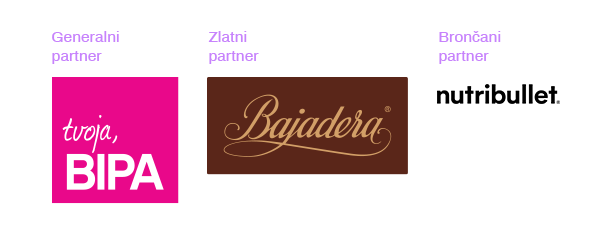
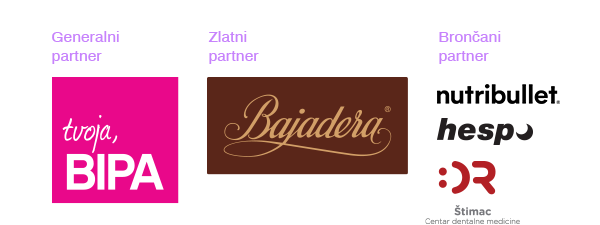
updates

Changed region(s): [[0.72, 0.5289, 0.9, 0.6533], [0.72, 0.7156, 0.84, 0.8711], [0.69, 0.9022, 0.87, 0.9956]]

diff --git a/templates/native/biram-sebe/assets/css/style.css b/templates/native/biram-sebe/assets/css/style.css
@@ -1927,7 +1927,7 @@ Portfolio
 .our-portfolio .owl-nav {
   display: inline-block!important;
   position: absolute;
-  top: -125px;
+  top: -225px;
   right: 15%;
   max-width: 1320px;
 }

diff --git a/templates/native/biram-sebe/index.php b/templates/native/biram-sebe/index.php
@@ -24,12 +24,12 @@
     <link href="https://fonts.googleapis.com/css2?family=Cormorant:ital,wght@0,300..700;1,300..700&family=Poppins:ital,wght@0,100;0,200;0,300;0,400;0,500;0,600;0,700;0,800;0,900;1,100;1,200;1,300;1,400;1,500;1,600;1,700;1,800;1,900&display=swap" rel="stylesheet">
     <link rel="icon" type="image/x-icon" href="<?php echo $native_path ?>/assets/images/favicon.png">
     <!-- Bootstrap core CSS -->
-    <link href="<?php echo $native_path ?>/vendor/bootstrap/css/bootstrap.min.css" rel="stylesheet">
+    <link href="vendor/bootstrap/css/bootstrap.min.css" rel="stylesheet">
 
 
     <!-- Additional CSS Files -->
     <link rel="stylesheet" href="<?php echo $native_path ?>/assets/css/fontawesome.css">
-    <link rel="stylesheet" href="<?php echo $native_path ?>/assets/css/style.css?v=21032024v2">
+    <link rel="stylesheet" href="<?php echo $native_path ?>/assets/css/style.css?v=23042024v3">
     <link rel="stylesheet" href="<?php echo $native_path ?>/assets/css/animated.css">
     <link rel="stylesheet" href="<?php echo $native_path ?>/assets/css/owl.css">
 <style type="text/css">
@@ -154,7 +154,7 @@
     </div>
   </div>
       <div class="container">
-      <div class="row">
+        <div class="row">
           <div class="col-lg-1 text-center">
           </div>
           <div class="col-lg-5 text-center wow fadeInLeft" data-wow-duration="1.9s" data-wow-delay="0s"><a href="https://www.telegram.hr/super1/zbog-oziljaka-na-kozi-skrivala-je-svoje-tijelo-13-godina-sve-je-pocelo-kad-mi-je-umrla-mama/" target="_blank">
@@ -193,7 +193,7 @@
 
     <div class="row">
       <div class="col-lg-12 text-center">
-          <h1 style="font-weight: 700; font-size: 6em; margin-bottom: 50px;">#nepobjedive</h1>
+          <h1 style="font-weight: 700; font-size: 6em; margin-bottom: 50px;">#nepobjedive <img src="<?php echo $native_path ?>/assets/images/bs-logo.png" style="max-width:60px; height: auto; margin-top: 10px; margin-bottom: 20px;"></h1>
         </div>
 
     </div>
@@ -269,10 +269,10 @@
 <div class="blogdva" style="padding-bottom: 0px !important; padding-top: 0px; background: #7B19C8;">
   <div class="container-fluid" style="background: background: #7B19C8 !important; z-index: 100; position: relative; padding-top: 120px; padding-bottom: 120px; overflow: hidden;">
 
-    <div class="row">
+    <div class="row" id="vodic">
 
       <div class="col-lg-6 offset-lg-3 text-center wow fadeIn" data-wow-duration="1s" data-wow-delay="1.5s">
-          <h1 style="color:#fff !important">Preuzmi vodič za izgradnju samopouzdanja</h1>
+          <h1 style="color:#fff !important; margin-top:80px;">Preuzmi vodič za izgradnju samopouzdanja</h1>
           <p style="color:#fff !important">Uz pomoć pet stručnjakinja, redom psihologinja, seksologinja, psihoterapeutkinja te savjetnica za prehranu, kreirali smo vodič za izgradnju tvog samopouzdanja. Upiši svoju e-mail adresu i preuzmi booklet sa savjetima kako izgraditi samopouzdanje na poslu, u majčinstvu, u odnosu prema vlastitom tijelu te partnerstvu. </p>
 
          <div class="container mt-5">
@@ -475,10 +475,30 @@
         <svg style="width:70px;" class="MuiSvgIcon-root MuiSvgIcon-fontSizeMedium css-dhaba5" focusable="false" aria-hidden="true" viewBox="0 0 24 24" data-testid="FormatQuoteIcon"><path d="M6 17h3l2-4V7H5v6h3zm8 0h3l2-4V7h-6v6h3z"></path></svg>
       </p>
 
+      </div>
+  </div>
+</div>
+
+    <div class="container">
+      <div class="row">
+
+          <div class="col-lg-6 offset-lg-3 text-center wow fadeIn" data-wow-duration="1.5s" data-wow-delay="1s">
+            <h1 class="strucnjaknaslov">Riječ stručnjaka</h1>
+            <p class="strucnjaktekst">Snažan i slobodan ženski um ne ugrožava ni vlastitu ni tuđu ženstvenost, niti tuđu muževnost, odnosno muškost. Ne postoji niti jedan racionalan razlog zašto je potrebno ženu sputavati u intelektualnom i kreativnom razvoju, zašto ju je potrebno svoditi na objekt, odnosno na komad mesa – oduzimajući joj pritom identitet, osobnost, snagu jedinke.</p>
+            <p class="saznajvise text-center"><a href="https://www.telegram.hr/super1/zbog-ideala-ljepote-u-medijima-imamo-sve-vise-srednjoskolki-koje-idu-na-estetske-operacije-strucnjakinja-nam-pojasnjava-cijeli-niz-ozbiljnih-opasnosti/" target="_blank" style="font-family: 'Poppins', sans-serif; color: #7B19C8; font-size: 16px; text-decoration: none; letter-spacing: 1px; font-weight: 500;">PROČITAJ VIŠE <span style="-webkit-animation: micanje 1s ease-in-out 0s infinite; animation: micanje 1s ease-in-out 0s infinite;"><img src="<?php echo $native_path ?>/assets/images/strelica.svg" style="width: 50px;" /></span></a></p>
+              <br/><br/>
+            <span style="margin-top:30px; padding-top:0px; font-weight: 500; font-size: 19px !important;  font-family: 'Poppins'; letter-spacing: 2px;"> Viktorija Car, stručnjakinja za društvo</span>
+          <br/><br/>
+        <img src="<?php echo $native_path ?>/assets/images/viktorija.png" style="width:180px; height: auto;" />
+      </p>
+
 
         </div>
-    </div>
-  </div>
+
+      </div>
+      </div>
+
+
 </div>
 
 <div class="blog" style="padding-bottom: 0px !important;">
@@ -504,7 +524,7 @@
   </div>
 
 
-      <div class="container">
+    <div class="container">
       <div class="row">
           <div class="col-lg-1 text-center">
           </div>
@@ -520,9 +540,23 @@
               </p>
             </a>
             </div>
+
           <div class="col-lg-1 text-center">
           </div>
+          <div class="col-lg-6 offset-lg-3 text-center wow fadeIn" data-wow-duration="1.5s" data-wow-delay="1s">
+            <h1 class="strucnjaknaslov">Riječ stručnjaka</h1>
+            <p class="strucnjaktekst">Postoje ljudi, no nadam se da nisu većina, koji će sebi dati za pravo da komentiraju izgled svoje partnerice, neovisno o tome radi li se tu o veličini ili manjini grudi, kosi, stražnjici, šminkanju, oblačenju.</p>
+            <p class="saznajvise text-center"><a href="https://www.telegram.hr/super1/svaka-treca-zena-u-hrvatskoj-srami-se-razodjenuti-pred-partnerom-seksologinja-je-s-nama-podijelila-korisne-savjete/" target="_blank" style="font-family: 'Poppins', sans-serif; color: #7B19C8; font-size: 16px; text-decoration: none; letter-spacing: 1px; font-weight: 500;">PROČITAJ VIŠE <span style="-webkit-animation: micanje 1s ease-in-out 0s infinite; animation: micanje 1s ease-in-out 0s infinite;"><img src="<?php echo $native_path ?>/assets/images/strelica.svg" style="width: 50px;" /></span></a></p>
+              <br/><br/>
+            <span style="margin-top:30px; padding-top:0px; font-weight: 500; font-size: 19px !important;  font-family: 'Poppins'; letter-spacing: 2px;"> Nataša Barolin Belić, stručnjakinja za intimne odnose</span>
+          <br/><br/>
+        <img src="<?php echo $native_path ?>/assets/images/natasa.png" style="width:180px; height: auto;" />
+      </p>
 
+
+        </div>
+
+      </div>
       </div>
     </div>
 
@@ -550,8 +584,8 @@
   </div>
 
   <!-- Scripts -->
-  <script src="<?php echo $native_path ?>/vendor/jquery/jquery.min.js"></script>
-  <script src="<?php echo $native_path ?>/vendor/bootstrap/js/bootstrap.bundle.min.js"></script>
+  <script src="vendor/jquery/jquery.min.js"></script>
+  <script src="vendor/bootstrap/js/bootstrap.bundle.min.js"></script>
   <script src="<?php echo $native_path ?>/assets/js/owl-carousel.js"></script>
   <script src="<?php echo $native_path ?>/assets/js/animation.js"></script>
   <script src="<?php echo $native_path ?>/assets/js/imagesloaded.js"></script>
